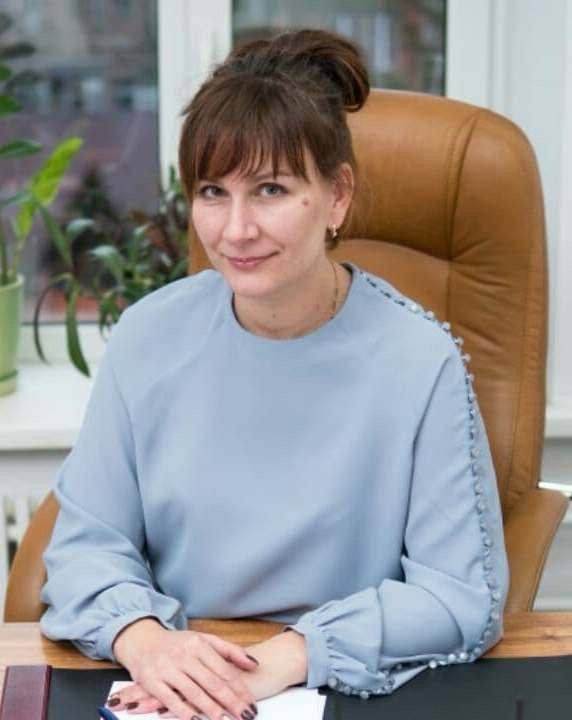
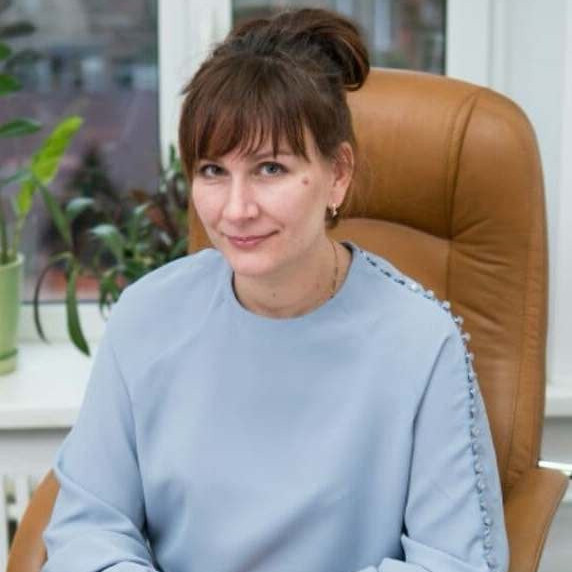
feat: add end change team photo and style

diff --git a/src/entity/team/model/teamList.model.ts b/src/entity/team/model/teamList.model.ts
@@ -8,8 +8,9 @@ import gunchenko_daria from "../model/asset/gunchenko_daria.jpg";
 import terashenko_illa from "../model/asset/terashenko_illa.jpg";
 import golovan_tetiana from "../model/asset/golovan_tetiana.jpg";
 import timoshenko_egor from "../model/asset/timoshenko_egor.jpg";
-import vaselenko_oleksandra from "../model/asset/vaselenko_oleksandra.jpg";
+import vlasenko_oleksandra from "../model/asset/vlasenko_oleksandra.jpg";
 import chub_vladislav from "../model/asset/chub_vladislav.png";
+import reutova_evgeniia from "../model/asset/reutova_evgeniia.jpg";
 // import from "../model/asset/";
 
 export const TEAM_LIST: Record<Locale, Array<TeamItem>> = {
@@ -96,10 +97,20 @@ export const TEAM_LIST: Record<Locale, Array<TeamItem>> = {
       regalies: "Партнер",
     },
     {
+      firstName: "Євгенія",
+      lastName: "Реутова",
+      fatherName: "Сергіївна",
+      photo: reutova_evgeniia,
+      position: "Адвокат", // По аналогии с другими партнерами
+      specialization: "Сімейне, спадкове, цивільне та господарське право",
+      expirience: "20 років",
+      regalies: "Партнер",
+    },
+    {
       firstName: "Олександра",
       lastName: "Власенко",
       fatherName: "Олександрівна",
-      photo: vaselenko_oleksandra,
+      photo: vlasenko_oleksandra,
       position: "Юрист",
       specialization: "Кримінальне та адміністративне право",
       expirience: "2 років",
@@ -201,10 +212,20 @@ export const TEAM_LIST: Record<Locale, Array<TeamItem>> = {
       regalies: "Partner",
     },
     {
+      firstName: "Yevheniia",
+      lastName: "Reutova",
+      fatherName: "Serhiivna",
+      photo: reutova_evgeniia,
+      position: "Lawyer", // By analogy with other partners
+      specialization: "Family, inheritance, civil and commercial law",
+      expirience: "20 years",
+      regalies: "Partner",
+    },
+    {
       firstName: "Oleksandra",
       lastName: "Vlasenko",
       fatherName: "Oleksandrivna",
-      photo: vaselenko_oleksandra,
+      photo: vlasenko_oleksandra,
       position: "Legal counsel",
       specialization: "Criminal and administrative law",
       expirience: "2 years",

diff --git a/src/widget/team/ui/component/list/item/item.team.module.scss b/src/widget/team/ui/component/list/item/item.team.module.scss
@@ -22,6 +22,9 @@
 
   width: 100%;
   height: 100%;
+  aspect-ratio: 1/1;
+
+  // max-height: 400px;
 }
 
 .content {
@@ -31,6 +34,8 @@
   justify-content: center;
 
   padding: 50px;
+
+  text-align: center;
   @include col(12);
   @include col-md(8);
 
@@ -38,12 +43,27 @@
 }
 
 .title {
+  position: relative;
 }
 
 .position {
+  position: relative;
+}
+
+.regalies {
+  position: relative;
+}
+
+.specialization {
+  position: relative;
+}
+
+.expirience {
+  position: relative;
 }
 
 .description {
+  position: relative;
 }
 
 .even {
